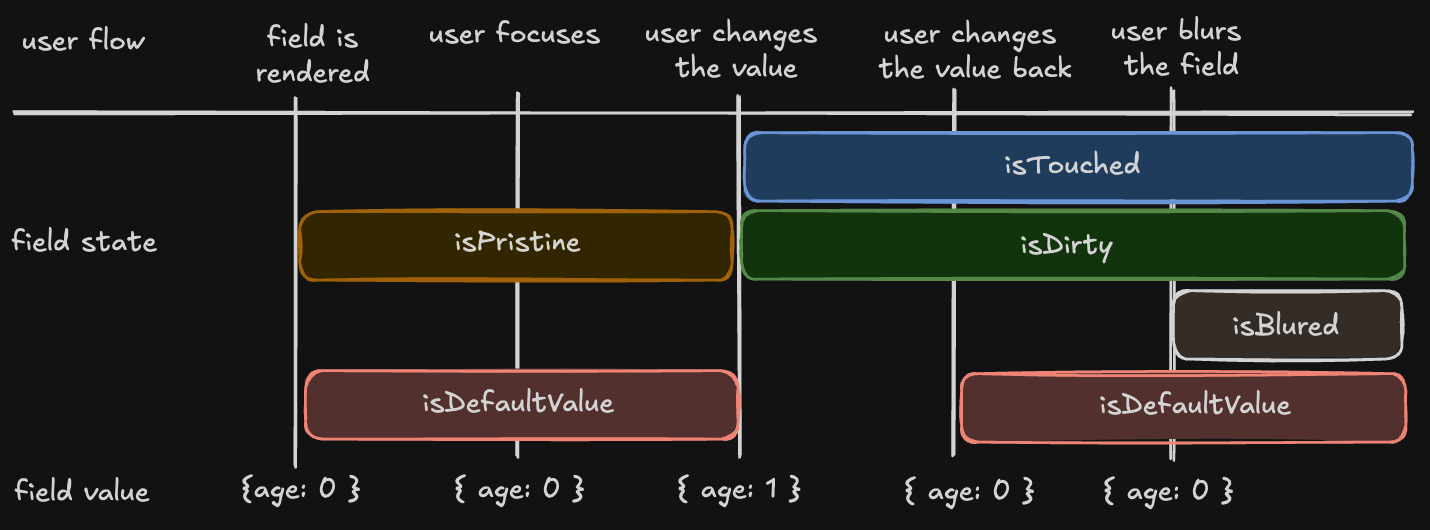
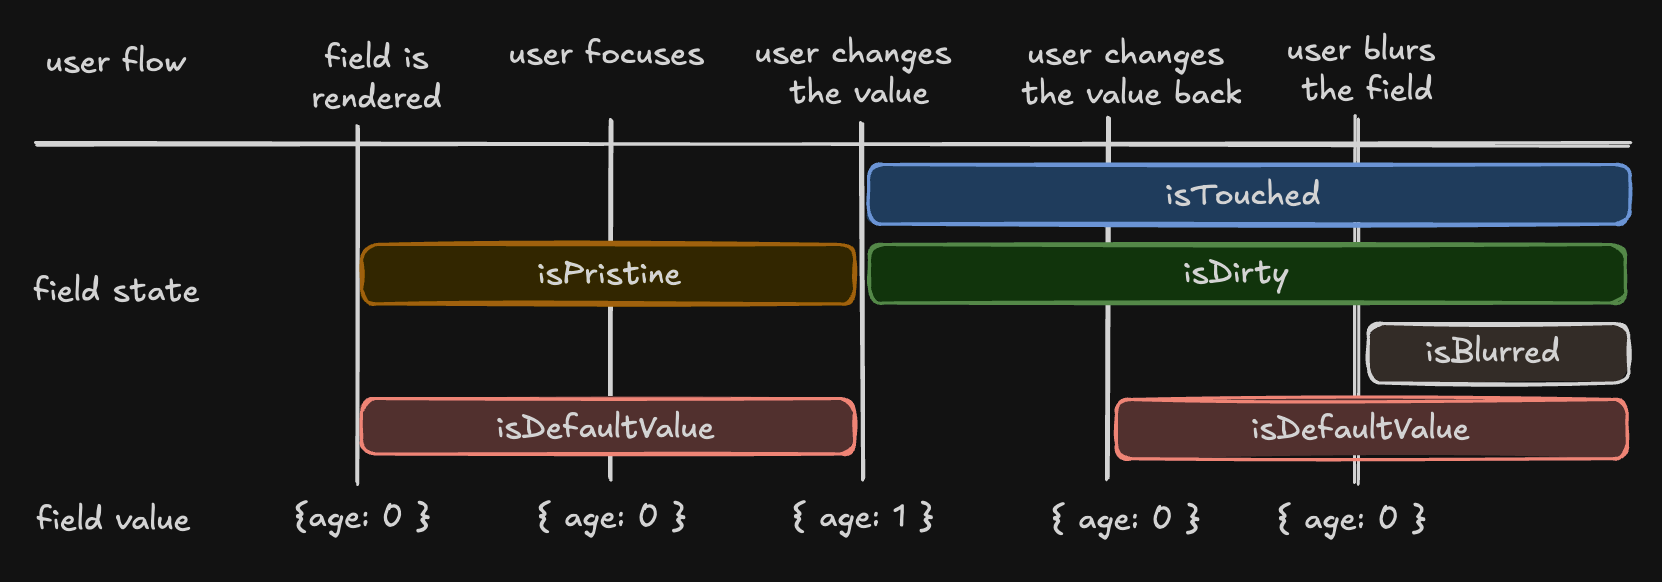
fix: image typo and svelte parentheses

diff --git a/docs/framework/svelte/guides/basic-concepts.md b/docs/framework/svelte/guides/basic-concepts.md
@@ -72,7 +72,7 @@ Example:
 
 ## Field State
 
-Each field has its own state, which includes its current value, validation status, error messages, and other metadata. You can access a field's state using the `field().state` property.
+Each field has its own state, which includes its current value, validation status, error messages, and other metadata. You can access a field's state using the `field.state` property.
 
 Example:
 
